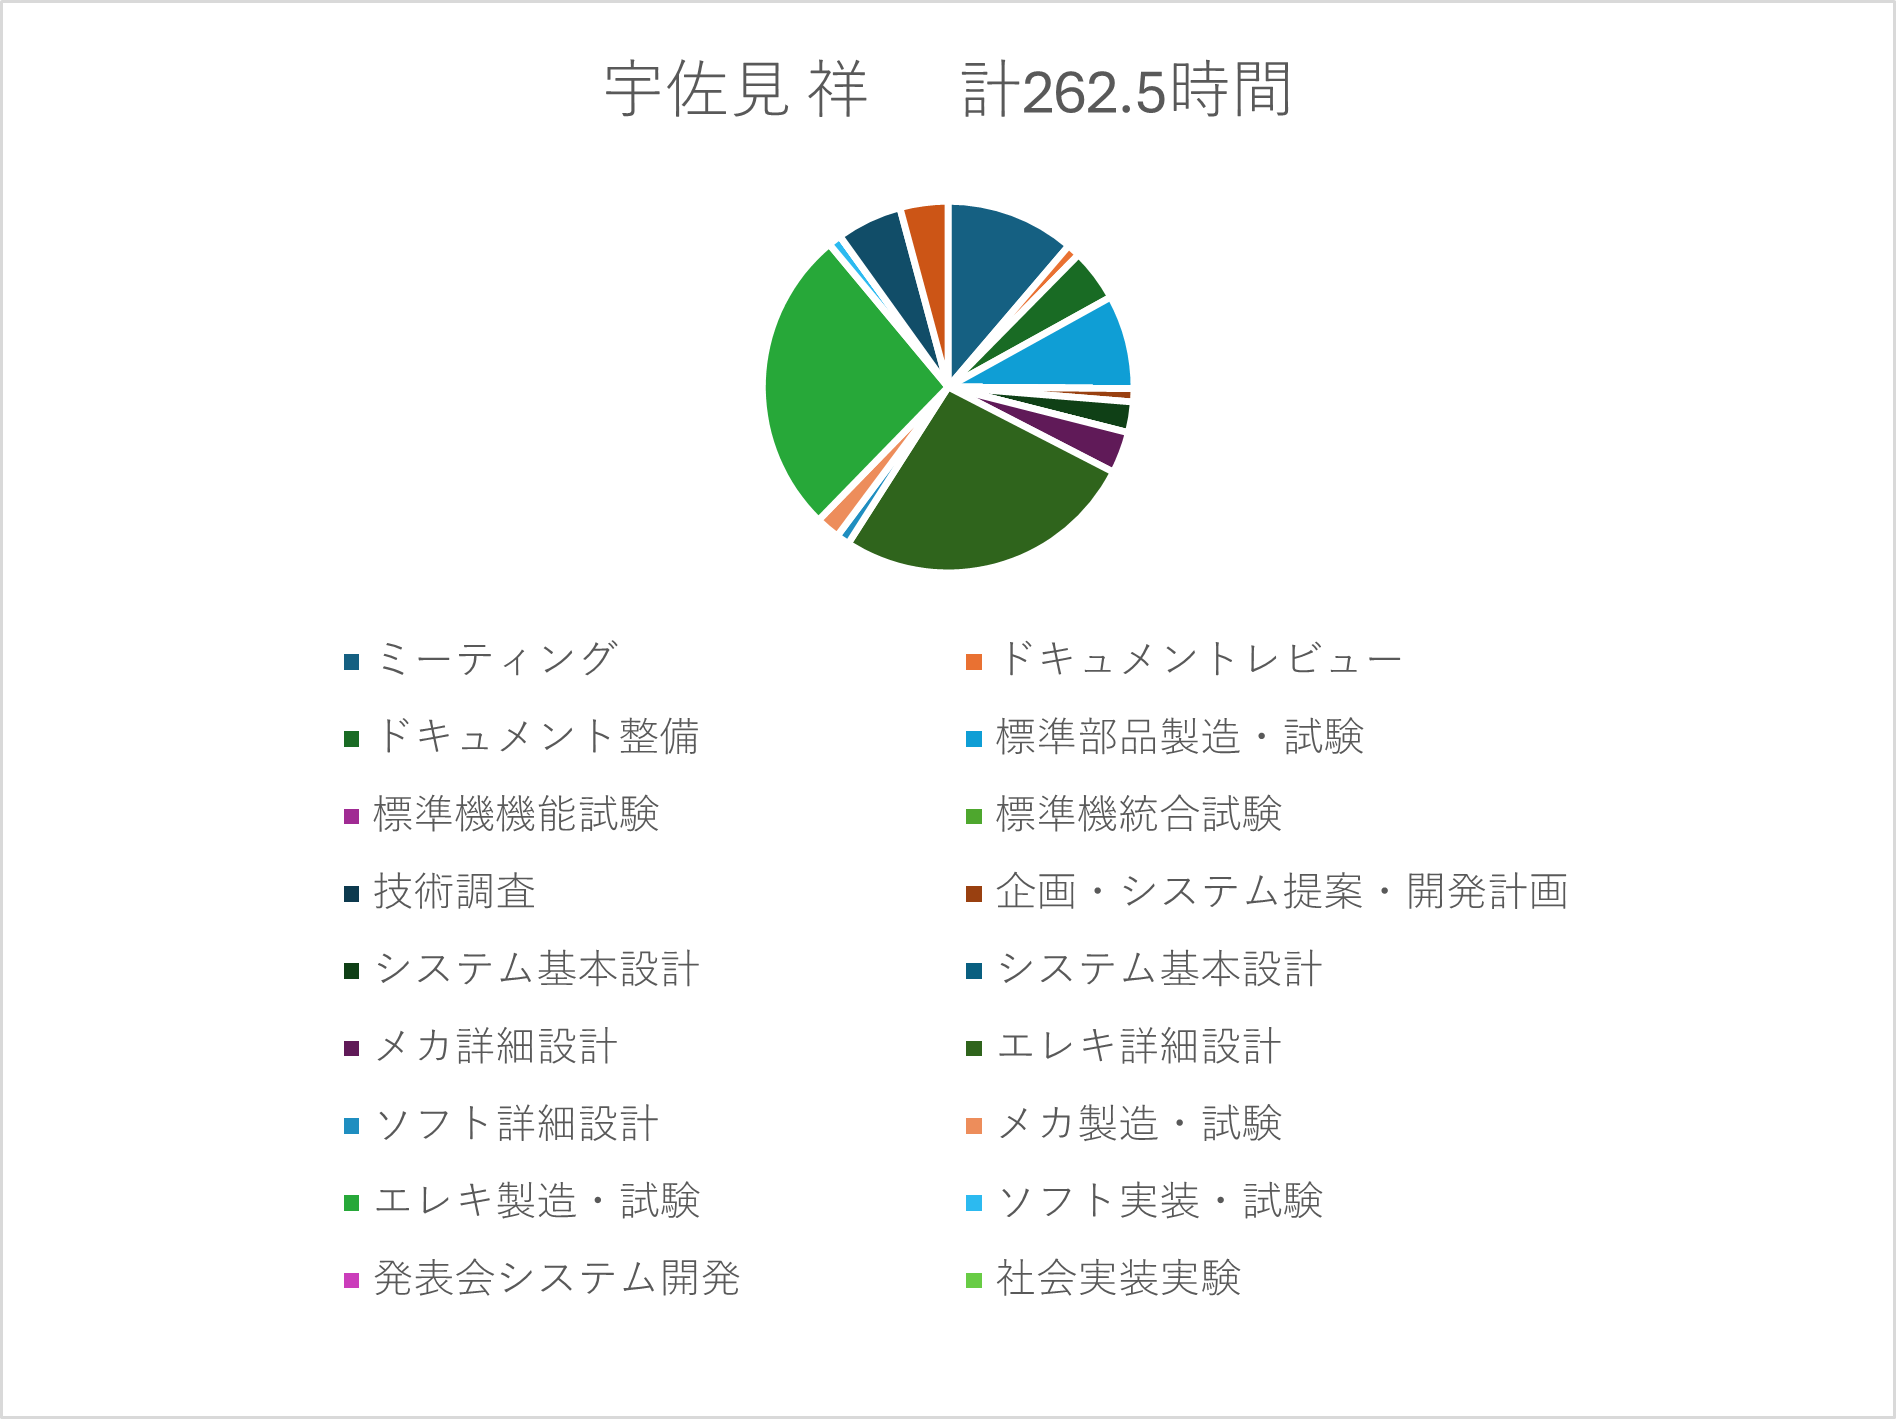
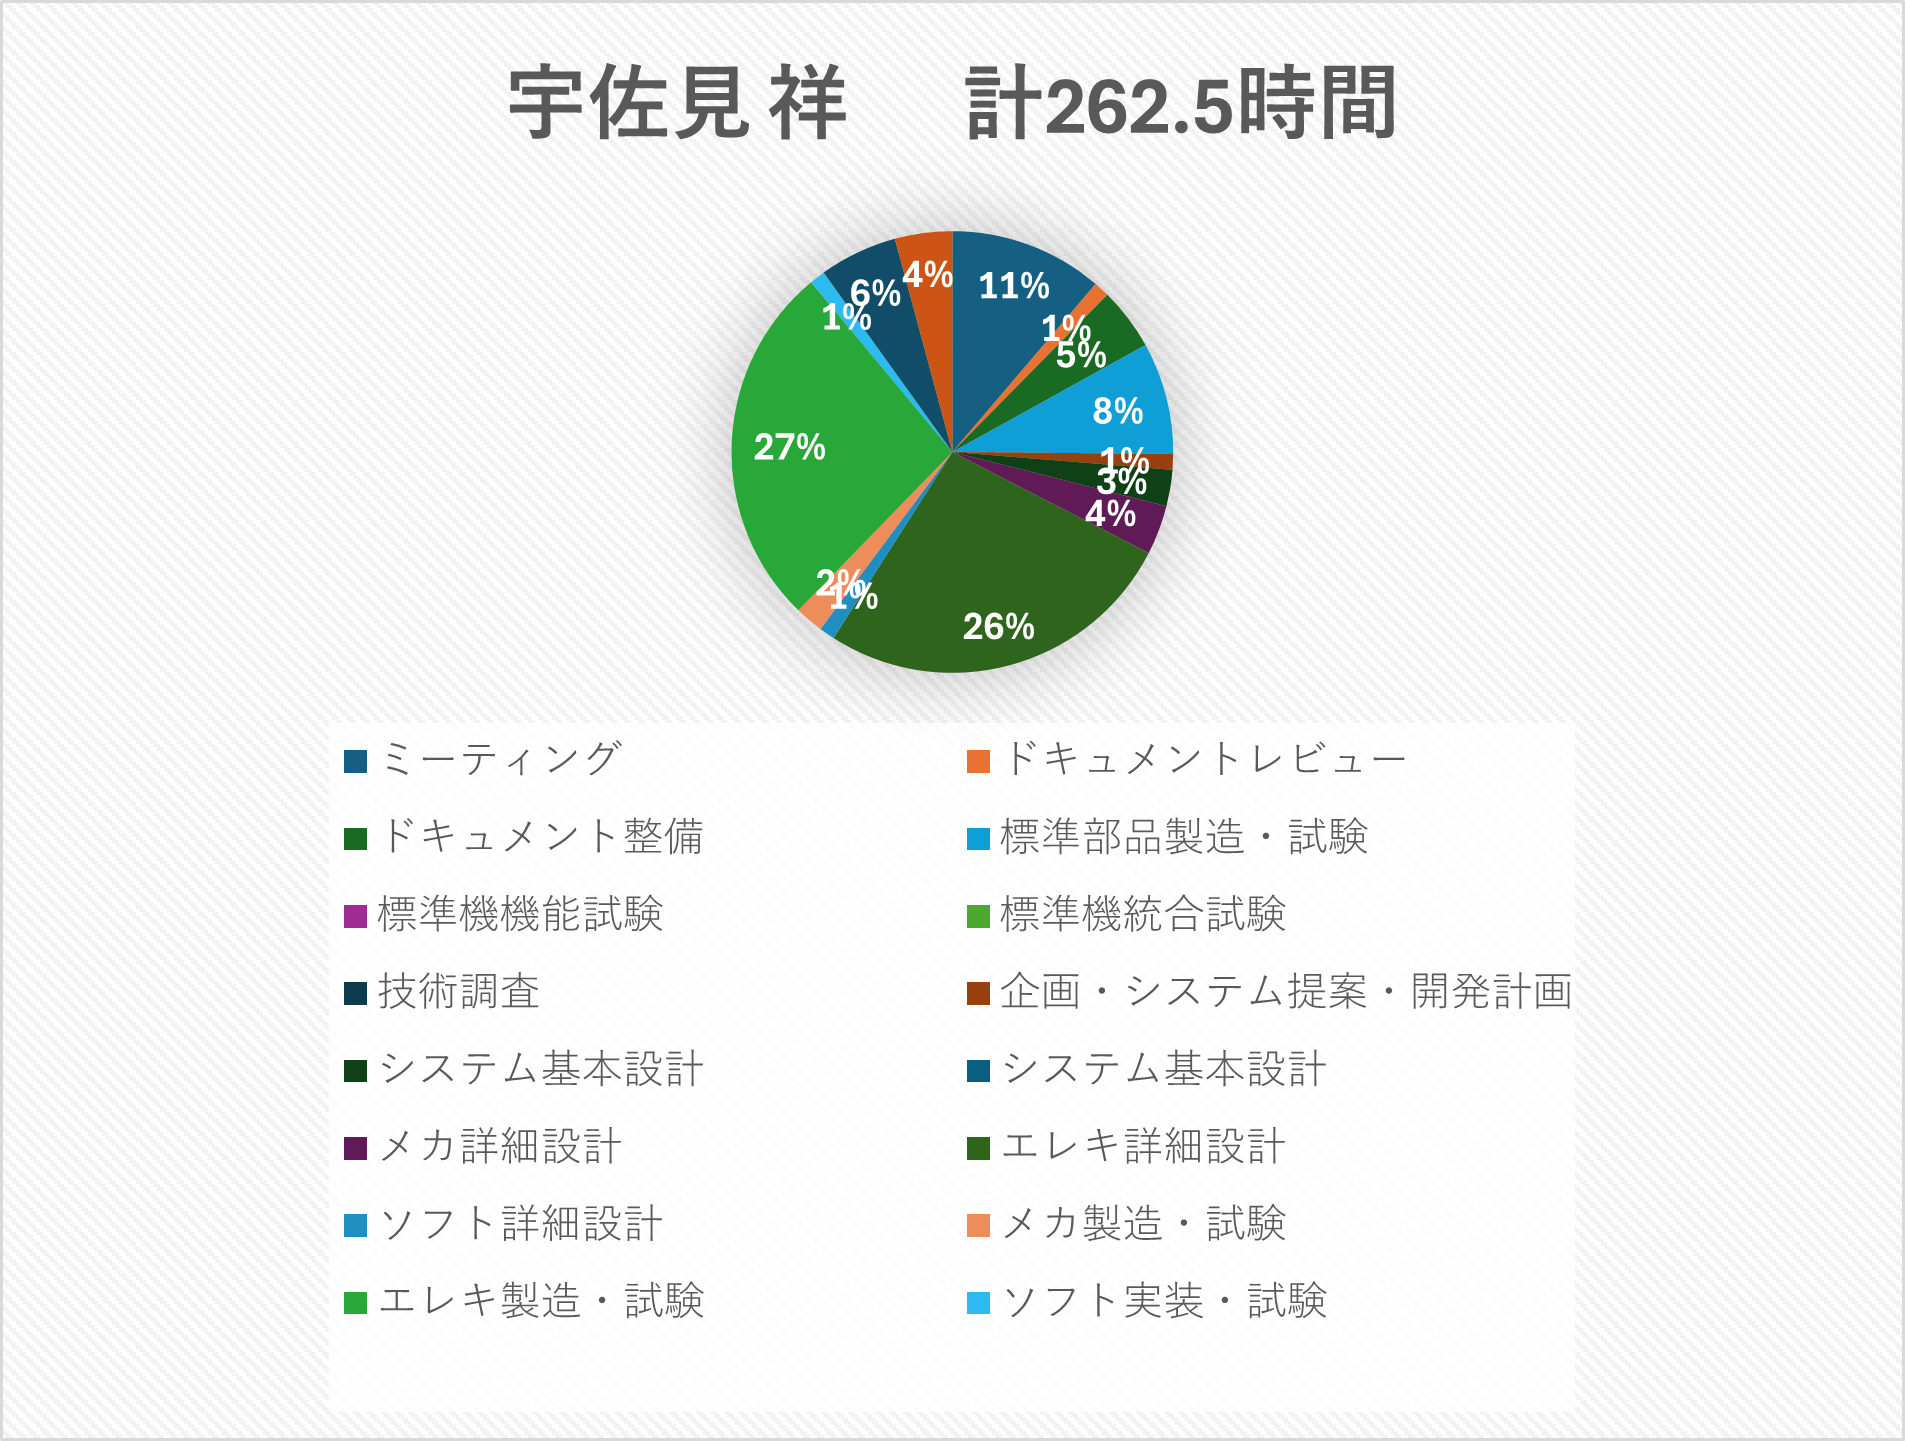
rept_timetable

diff --git a/mirs2405/rept/num0002a/index.html b/mirs2405/rept/num0002a/index.html
@@ -130,6 +130,39 @@
       <embed src="../picture_2/開発工程表後.pdf"  width="500" height="500" />
       <p>figure4-2.実際の開発スケジュール</p>
     </center>
+    <p>各班員の作業時間の割合を以下に示す。</p>
+    <center>
+      <img src="../picture_2/横山 翔琉_timetable.png" width="500" />
+      <p>figure4-3.作業時間割合（横山）</p>
+    </center>
+    <center>
+      <img src="../picture_2/宇佐見 祥_timetable.png" width="500" />
+      <p>figure4-4.作業時間割合（宇佐見）</p>
+    </center>
+    <center>
+      <img src="../picture_2/幸 航輝_timetable.png" width="500" />
+      <p>figure4-5.作業時間割合（幸）</p>
+    </center>
+    <center>
+      <img src="../picture_2/清 拓実_timetable.png" width="500" />
+      <p>figure4-6.作業時間割合（清）</p>
+    </center>
+    <center>
+      <img src="../picture_2/松浦 純_timetable.png" width="500" />
+      <p>figure4-7.作業時間割合（松浦）</p>
+    </center>
+    <center>
+      <img src="../picture_2/上原 涼介_timetable.png" width="500" />
+      <p>figure4-8.作業時間割合（上原）</p>
+    </center>
+    <center>
+      <img src="../picture_2/仲谷 天芽_timetable.png" width="500" />
+      <p>figure4-9.作業時間割合（仲谷）</p>
+    </center>
+    <center>
+      <img src="../picture_2/平沢 快斗_timetable.png" width="500" />
+      <p>figure4-10.作業時間割合（平沢）</p>
+    </center>
 
 
 
